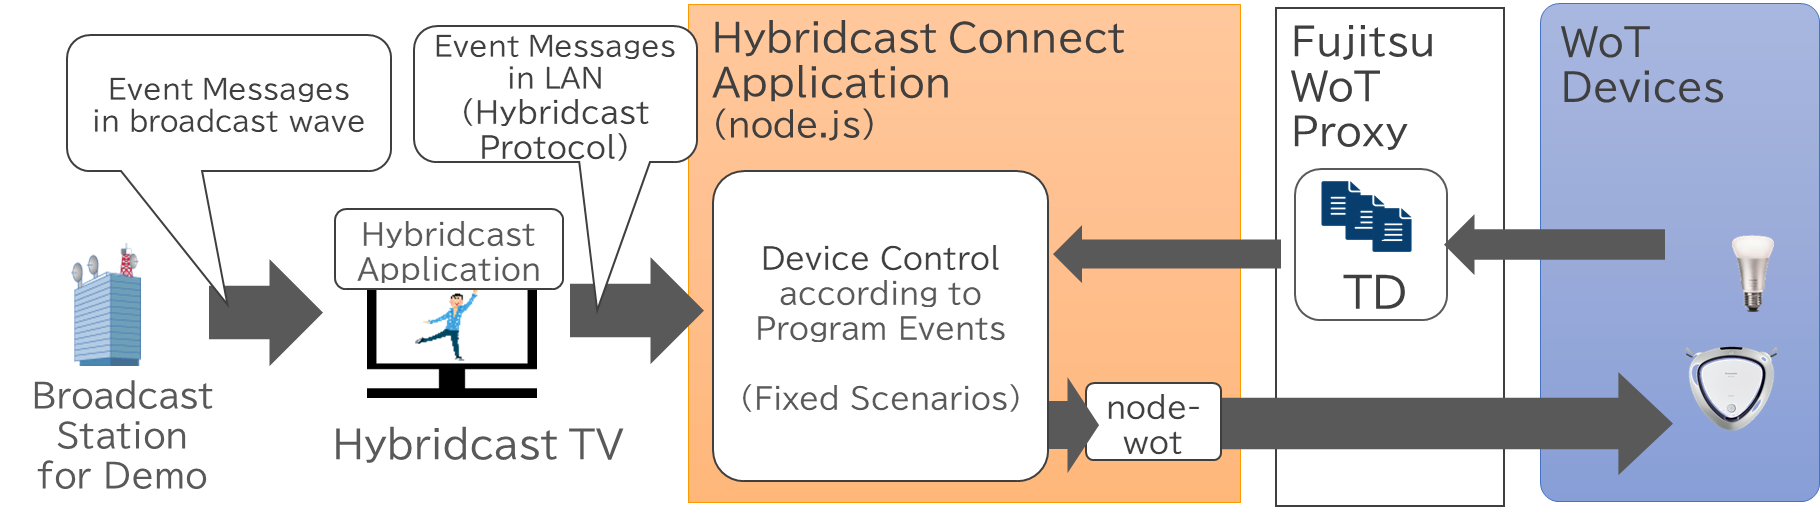
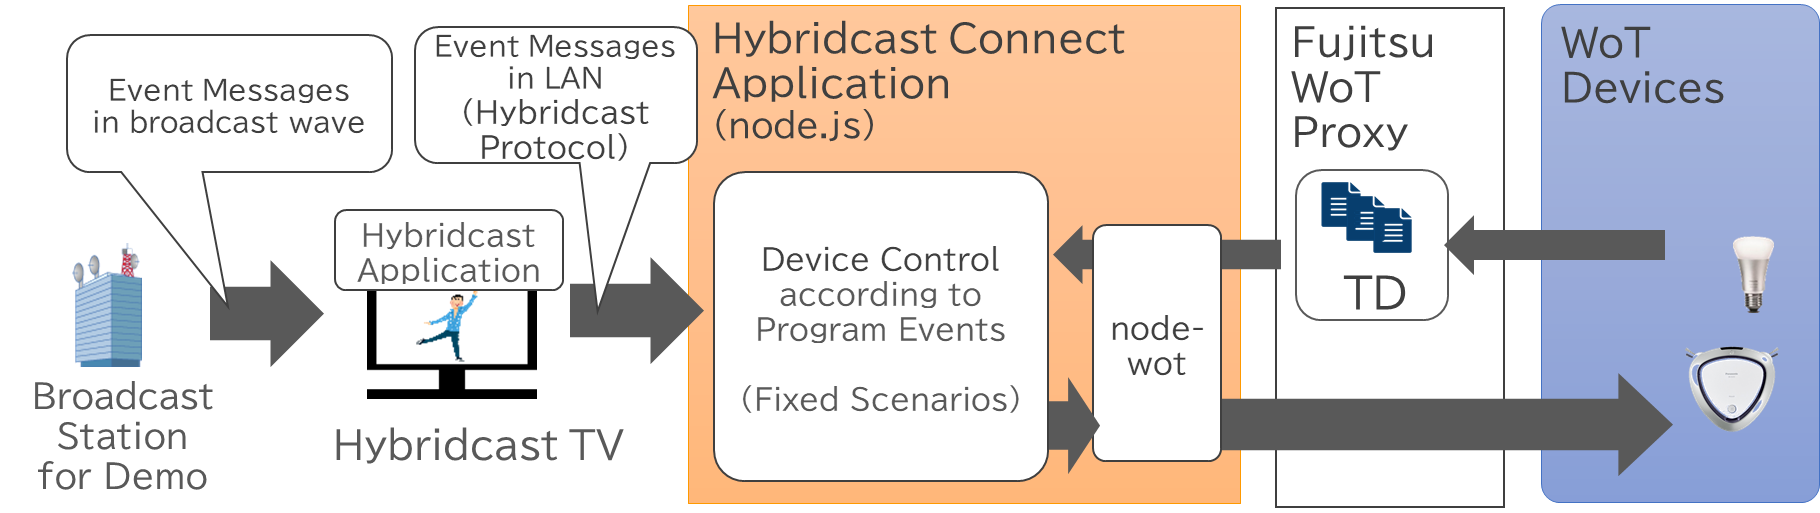
Update README.md - rename Hue
Update scenario_nhk.png
- fix the role of node-wot

diff --git a/plugfest/2019-tpac-fukuoka/README.md b/plugfest/2019-tpac-fukuoka/README.md
@@ -29,7 +29,7 @@ Oracle, Intel, Siemens, Hitachi, Panasonic, Fujitsu, TU Munich, Smart Things, NH
 | Fujitsu   | Smart home devices (remote): Smart meter, LED light, Air conditioner, and Window blind Open, Close. |   | ...  | suzuki.takahisa@fujitsu.com, r.matsukura@fujitsu.com |
 | TU Munich   | Sense HAT |   | Environments sensors, LED matrix and joystick  | ege.korkan@tum.de |
 | TU Munich   | Light Sensor |   | Light sensor  | ege.korkan@tum.de |
-| Hitachi     | (Tool) Node Generator | Wifi | Node-RED node generator and application | kunihiko.toumura.yv@hitachi.com | 
+| Hitachi     | (Tool) Node Generator | Wifi | Node-RED node generator and application | kunihiko.toumura.yv@hitachi.com |
 | Intel   | [Simple Web Camera](TDs/Intel/intel-camera.jsonld) | WiFi / LAN, 1 Power. Local http:9191. Ext https basic:8098, digest:8099. Long poll observe. | Camera frame grabber and cropping service | michael.mccool@intel.com |
 | Intel   | [Web Speak](TDs/Intel/intel-speak.jsonld)         | WiFi / LAN, 1 Power. Local http:8085. Ext https basic:8096, digest:8097. | Speech synthesizer/speaker | michael.mccool@intel.com |
 
@@ -66,7 +66,7 @@ When the "room empty" condition is detected, the room is cleaned by a vacuum cle
 
 ### Smart Home Demo (Contact: Panasonic)
 
-#### Scenario: 
+#### Scenario:
 Home appliances communicate with the gateway using existing home protocol such as ECHONET Lite, OCF, etc. and provide functions through the WoT API.
 
 #### Device interactions (Proposal)
@@ -105,7 +105,7 @@ Hybridcast Contact application receives the information and controlls smart home
 * Hybridcast Connect application which receives information about TV programs
     * get TDs from Fujitsu proxy
     * stops Robotics Cleaner (Panasonic)
-    * changes the color of Panasonic Hue (Panasonic)
+    * changes the color of Philips Hue (Panasonic)
     * shows web applications on a smart mirror or a refrigerator display
 
 ## Industrial integration scenarios
@@ -185,7 +185,7 @@ There are the following four possible opportunities for the WoT demo but we won'
 1. Whole week: Panasonic's demo table at the lunch place
     * a table of 60cm x 180cm is available
     * title plate for the demo table is needed
-    
+
 2. Wednesday: Breakout session - 13:30-14:30  
     * We prefer tranquility of the "after lunch" slot.
     * 1st hour after lunch we have a dedicated demo room
@@ -198,7 +198,7 @@ There are the following four possible opportunities for the WoT demo but we won'
 
 4. ~~Monday evening: Developer meetup~~
     * This time it requires sponsoring: https://www.w3.org/2019/09/Meetup/
-    
+
 ### Session schedule
 
 | Date/time             | 1. Panasonic Table   | 2. Breakout Session | 3. Demo Session | Comment |
